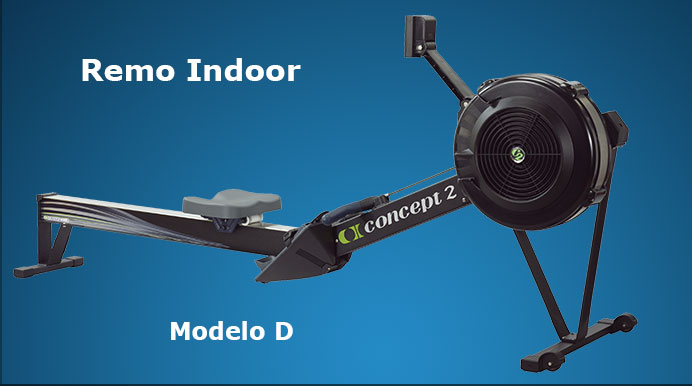
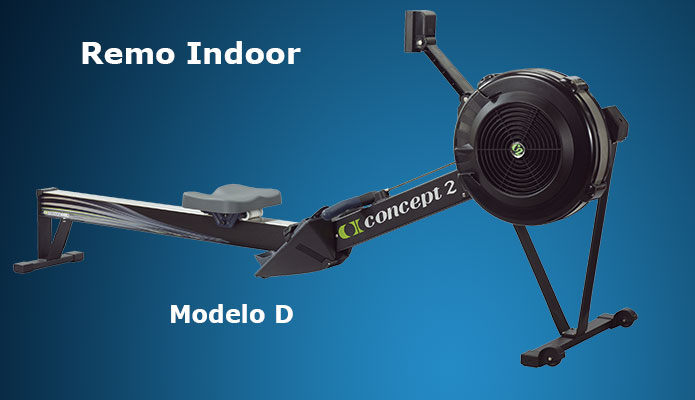
pagina produtos

diff --git a/app/templates/produtos/modelod.html b/app/templates/produtos/modelod.html
@@ -22,8 +22,16 @@
                 <img src="static/img/produtos/modelod/modelodbgbranco.jpg"/>
             </div>
             <div class="col-md-5">
-                <!--<img src="static/img/produtos/modelod/pm5_black_backlight.jpg"/>-->
             </div>
+            <div class="col-md-12">
+            <nav>
+                <ul class="nav nav-tabs">
+                    <li role="presentation" class="active"><a href="#">Sobre</a></li>
+                    <li role="presentation"><a href="#">Características</a></li>
+                    <li role="presentation"><a href="#">Especificações</a></li>
+                </ul>
+            </nav>
+             </div>
         </div>
     </div>
 </div>

diff --git a/app/static/js/app/produtos/produtos.js b/app/static/js/app/produtos/produtos.js
@@ -16,7 +16,8 @@ angular.module('concept2.produtos', ['ngRoute'])
         $rootScope.titulo = "Produtos"
     }])
 .controller('ModeloController', function($routeParams, $rootScope, $scope, $http){
-     $scope.slug = $routeParams.slug;
+     $scope.slug = $routeParams.slug
      $rootScope.pagina = "produtos";
      $rootScope.titulo = "Produtos";
+
 })

diff --git a/app/static/css/app.css b/app/static/css/app.css
@@ -10191,9 +10191,6 @@ header .navegacao .form-busca i {
 .pagina-produtos .modelo {
   background-color: white;
 }
-.pagina-produtos .modelo img {
-  width: 694px;
-}
 
 .pagina-eventos .lista-caixa {
   border: 5px solid #092638;

diff --git a/sass/modelod.scss b/sass/modelod.scss
@@ -1,6 +1,5 @@
 .modelo{
     background-color: white;
-    img{
-        width: 694px;
-    }
+
+
 }
